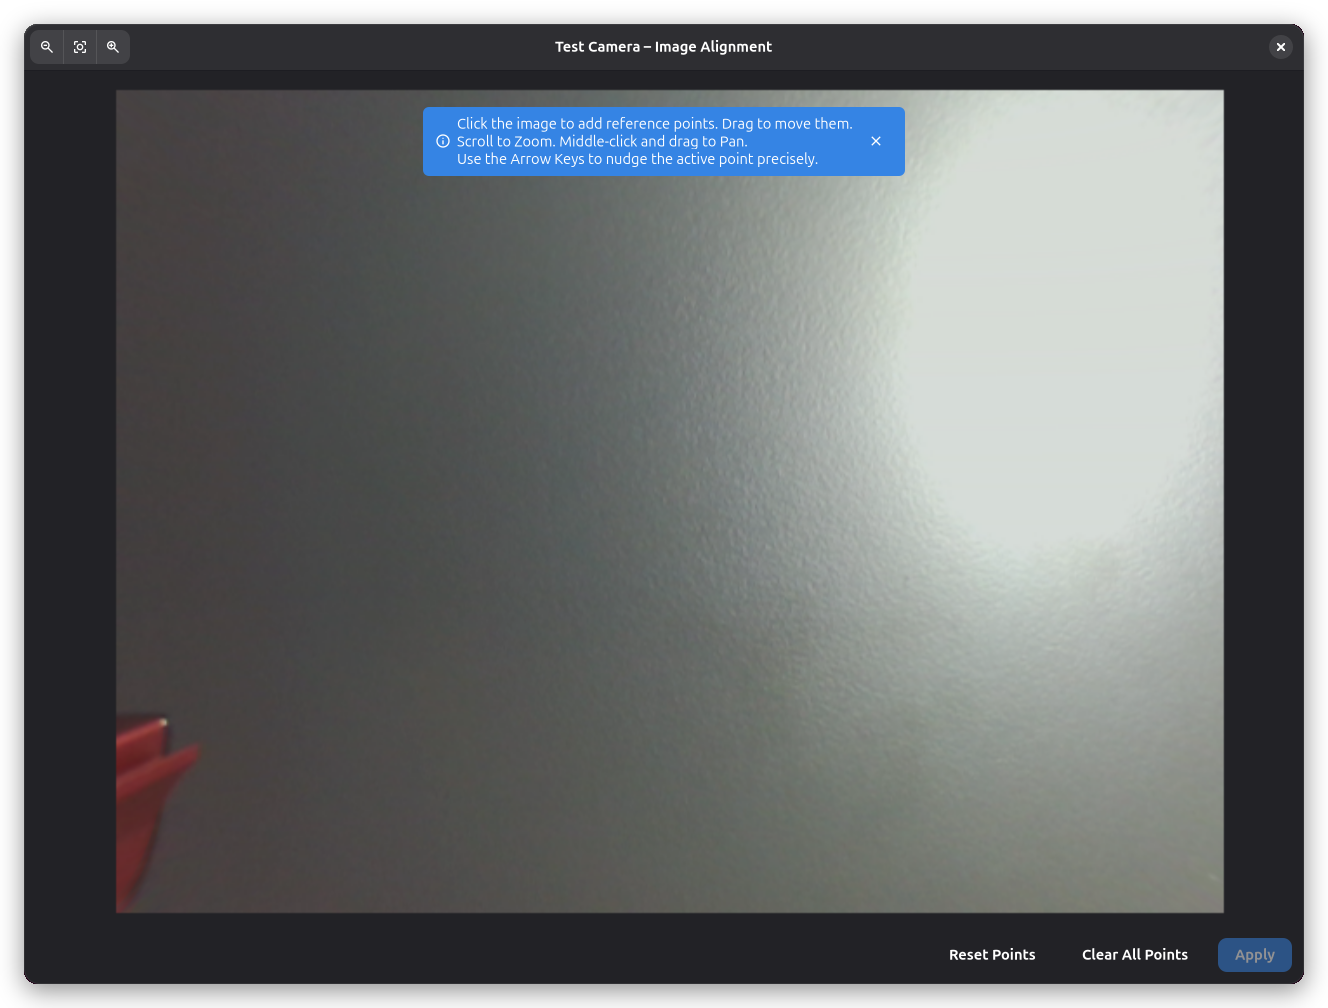
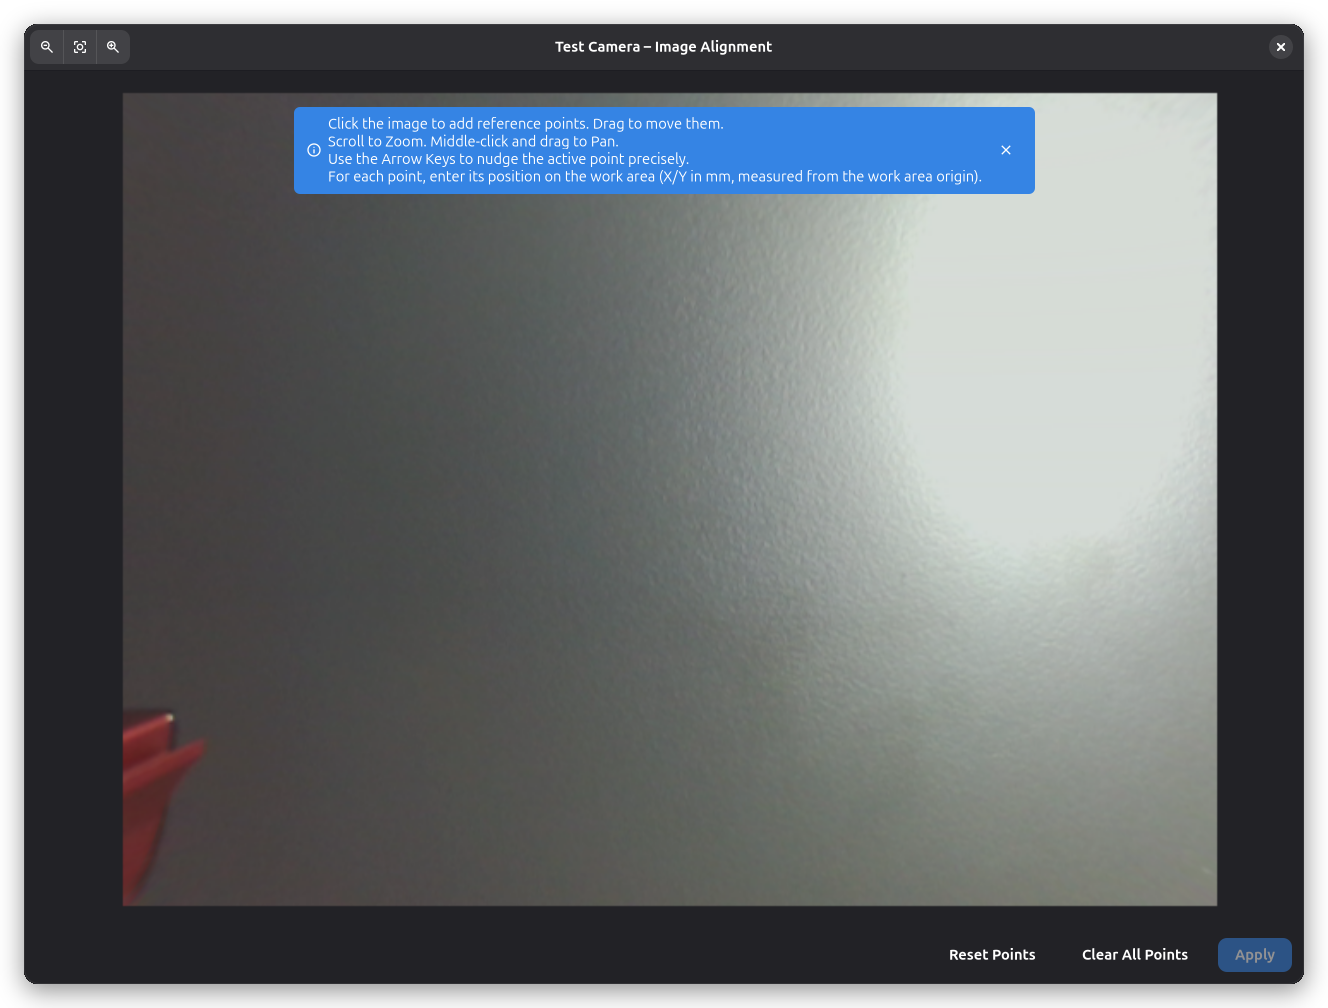
docs: update camera docs for the wizard calibration changes
Document that the calibration result is kept when its dialog is
closed, that reference point coordinates are entered in the display
unit measured from the work area origin, and that finishing the
wizard without alignment warns first. Regenerate the image alignment
screenshot, which shows the extended banner.

The camera screenshot script looked its mock controller up by source
id, which stopped matching when controllers became keyed by camera
id; give the mock camera a stable id so the target regenerates.

Changed region(s): [[0.0926, 0.0615, 0.9262, 0.9226], [0.0617, 0.0923, 0.0926, 0.8919], [0.1235, 0.7073, 0.1544, 0.7381]]

diff --git a/scripts/screenshot/machine_settings_camera.py b/scripts/screenshot/machine_settings_camera.py
@@ -67,7 +67,9 @@ def add_mock_camera(dialog):
     machine = dialog.machine
 
     def _add():
-        camera = Camera("Test Camera", "mock-device-0")
+        camera = Camera(
+            "Test Camera", "mock-device-0", camera_id="mock-device-0"
+        )
         camera.enabled = True
         machine.add_camera(camera)
         return camera

diff --git a/website/i18n/hi/docusaurus-plugin-content-docs/current/machine/camera.md b/website/i18n/hi/docusaurus-plugin-content-docs/current/machine/camera.md
@@ -198,8 +198,9 @@ YUYV विकल्प तब उपयोगी है जब आपका क
 3. कार्ड को कैमरा दृश्य के भीतर भिन्न स्थितियों और कोणों पर खिसकाएँ और प्रत्येक स्थिति के लिए
    **Capture Frame** पर क्लिक करें. कोनों और किनारों सहित पूरे फ़्रेम को कवर करने वाले कम से कम 8
    कैप्चर लक्षित करें. प्रगति पट्टी और स्थिति सूचक कैप्चर गुणवत्ता दिखाते हैं.
-4. पर्याप्त फ़्रेम कैप्चर होने पर, विज़ार्ड डिस्टॉर्शन मॉडल गणना करके लागू करता है — कैमरा ओवरले अब
-   सुधारी, सीधी छवि दिखाता है.
+4. पर्याप्त फ़्रेम कैप्चर होने पर, **Calibrate** पर क्लिक करें. विज़ार्ड परिणाम दिखाता है — इसे लागू
+   करने के लिए **Save Calibration** से पुष्टि करें (केवल **Discard** परिणाम छोड़ता है) — कैमरा ओवरले
+   अब सुधारी, सीधी छवि दिखाता है.
 
 #### मैन्युअल कैलिब्रेशन
 
@@ -216,7 +217,9 @@ YUYV विकल्प तब उपयोगी है जब आपका क
 
 छवि संरेखण कैमरा विज़ार्ड का अंतिम चरण है. कैमरा संरेखण कैमरा पिक्सेल और वास्तविक दुनिया के
 निर्देशांकों के बीच संबंध कैलिब्रेट करता है, सटीक स्थापना सक्षम करता है. विज़ार्ड यहीं वर्णित
-प्रक्रिया उपयोग करता है, और संरेखण लागू करने से विज़ार्ड पूरा हो जाता है.
+प्रक्रिया उपयोग करता है, और संरेखण लागू करने से विज़ार्ड पूरा हो जाता है. बिना लागू संरेखण के समाप्त
+करने पर पहले चेतावनी दी जाती है, क्योंकि तब कैमरा दृश्य को वर्क एरिया पर सटीक रूप से मैप नहीं किया
+जा सकता.
 
 #### संरेखण क्यों आवश्यक है
 
@@ -249,8 +252,10 @@ YUYV विकल्प तब उपयोगी है जब आपका क
    - प्रत्येक संदर्भ बिंदु के लिए दोहराएँ
 
 4. **विश्व निर्देशांक दर्ज करें:**
-   - प्रत्येक छवि बिंदु के लिए, वास्तविक दुनिया के X/Y निर्देशांक mm में दर्ज करें
-   - ये वास्तविक मशीन निर्देशांक हैं जहाँ प्रत्येक बिंदु स्थित है
+   - प्रत्येक छवि बिंदु के लिए, वास्तविक दुनिया के X/Y निर्देशांक अपनी प्रदर्शन इकाई में दर्ज करें
+     (एप्लिकेशन सेटिंग्स में सेट)
+   - ये वास्तविक मशीन निर्देशांक हैं जहाँ प्रत्येक बिंदु स्थित है, जो वर्क एरिया के मूल बिंदु से
+     मापे जाते हैं
    - पैमाने से सटीक रूप से मापें या ज्ञात मशीन स्थितियाँ उपयोग करें
 
 5. **संरेखण लागू करें:**

diff --git a/website/i18n/es/docusaurus-plugin-content-docs/current/machine/camera.md b/website/i18n/es/docusaurus-plugin-content-docs/current/machine/camera.md
@@ -150,8 +150,9 @@ Primero elige un **Pattern Type**:
    **Capture Frame** para cada posición. Apunta a al menos 8 capturas que cubran todo el encuadre,
    incluyendo esquinas y bordes. La barra de progreso y los indicadores de estado muestran la
    calidad de captura.
-4. Cuando se hayan capturado suficientes fotogramas, el asistente calcula el modelo de distorsión y
-   lo aplica — la superposición de la cámara ahora muestra una imagen corregida y recta.
+4. Cuando se hayan capturado suficientes fotogramas, haz clic en **Calibrate**. El asistente muestra
+   el resultado — confírmalo con **Save Calibration** para aplicarlo (solo **Discard** descarta el
+   resultado) — y la superposición de la cámara ahora muestra una imagen corregida y recta.
 
 #### Uso de un patrón ya impreso
 
@@ -215,7 +216,9 @@ distorsión manualmente — ajusta finamente los parámetros radiales (k1–k3) 
 La alineación de imagen es la etapa final del asistente de cámara. La alineación de cámara calibra
 la relación entre los píxeles de la cámara y las coordenadas del mundo real, permitiendo el
 posicionamiento preciso. El asistente usa el mismo procedimiento descrito aquí, y aplicar la
-alineación finaliza el asistente.
+alineación finaliza el asistente. Finalizar sin una alineación aplicada muestra primero una
+advertencia, porque entonces la vista de la cámara no puede mapearse con precisión sobre el área de
+trabajo.
 
 #### Por Qué es Necesaria la Alineación
 
@@ -250,8 +253,10 @@ de la máquina.
    - Repite para cada punto de referencia
 
 4. **Ingresa coordenadas del mundo:**
-   - Para cada punto de imagen, ingresa las coordenadas X/Y del mundo real en mm
-   - Estas son las coordenadas reales de la máquina donde está ubicado cada punto
+   - Para cada punto de imagen, ingresa las coordenadas X/Y del mundo real en tu unidad de
+     visualización (configurada en los ajustes de la aplicación)
+   - Estas son las coordenadas reales de la máquina donde está ubicado cada punto, medidas desde el
+     origen del área de trabajo
    - Mide con precisión con una regla o usa posiciones conocidas de la máquina
 
 5. **Aplica la alineación:**

diff --git a/website/i18n/de/docusaurus-plugin-content-docs/current/machine/camera.md b/website/i18n/de/docusaurus-plugin-content-docs/current/machine/camera.md
@@ -149,8 +149,9 @@ Wähle zuerst einen **Pattern Type**:
    jede Position auf **Capture Frame**. Strebe mindestens 8 Aufnahmen an, die das gesamte Bild
    abdecken, einschließlich Ecken und Kanten. Die Fortschrittsanzeige und Statusanzeigen zeigen die
    Aufnahmequalität.
-4. Sobald genügend Aufnahmen gemacht wurden, berechnet der Assistent das Verzerrungsmodell und
-   wendet es an — das Kamera-Overlay zeigt nun ein korrigiertes, gerades Bild.
+4. Sobald genügend Aufnahmen gemacht wurden, klicke auf **Calibrate**. Der Assistent zeigt das
+   Ergebnis — bestätige mit **Save Calibration**, um es anzuwenden (nur **Discard** verwirft das
+   Ergebnis) — und das Kamera-Overlay zeigt nun ein korrigiertes, gerades Bild.
 
 #### Ein bereits gedrucktes Muster verwenden
 
@@ -213,7 +214,8 @@ manuell anpassen — die radialen (k1–k3) und tangentialen (p1–p2) Parameter
 Die Bildausrichtung ist die letzte Stufe des Kamera-Assistenten. Die Kameraausrichtung kalibriert
 die Beziehung zwischen Kamerapixeln und realen Koordinaten und ermöglicht so präzises Positionieren.
 Der Assistent verwendet dasselbe hier beschriebene Verfahren, und das Anwenden der Ausrichtung
-schließt den Assistenten ab.
+schließt den Assistenten ab. Ein Beenden ohne angewendete Ausrichtung fragt zuerst nach, da die
+Kameraansicht dann nicht genau auf den Arbeitsbereich abgebildet werden kann.
 
 #### Warum Ausrichtung notwendig ist
 
@@ -246,8 +248,10 @@ Die Ausrichtung erstellt eine Transformationsmatrix, die Kamerapixel Maschinenko
    - Wiederhole für jeden Referenzpunkt
 
 4. **Weltkoordinaten eingeben:**
-   - Gib für jeden Bildpunkt die realen X/Y-Koordinaten in mm ein
-   - Dies sind die tatsächlichen Maschinenkoordinaten, an denen sich jeder Punkt befindet
+   - Gib für jeden Bildpunkt die realen X/Y-Koordinaten in deiner Anzeigeeinheit ein (in den
+     Anwendungseinstellungen festgelegt)
+   - Dies sind die tatsächlichen Maschinenkoordinaten, an denen sich jeder Punkt befindet, gemessen
+     vom Ursprung des Arbeitsbereichs
    - Miss genau mit einem Lineal oder verwende bekannte Maschinenpositionen
 
 5. **Ausrichtung anwenden:**

diff --git a/website/i18n/pt-BR/docusaurus-plugin-content-docs/current/machine/camera.md b/website/i18n/pt-BR/docusaurus-plugin-content-docs/current/machine/camera.md
@@ -147,8 +147,9 @@ Primeiro escolha um **Pattern Type**:
 3. Mova o padrão para diferentes posições e ângulos dentro da vista da câmera e clique em **Capture
    Frame** para cada posição. Procure fazer pelo menos 8 capturas cobrindo todo o quadro, incluindo
    cantos e bordas. A barra de progresso e os indicadores de status mostram a qualidade da captura.
-4. Quando quadros suficientes forem capturados, o assistente calcula o modelo de distorção e o
-   aplica — a sobreposição da câmera agora mostra uma imagem corrigida e reta.
+4. Quando quadros suficientes forem capturados, clique em **Calibrate**. O assistente mostra o
+   resultado — confirme com **Save Calibration** para aplicá-lo (apenas **Discard** descarta o
+   resultado) — e a sobreposição da câmera agora mostra uma imagem corrigida e reta.
 
 #### Usando um padrão já impresso
 
@@ -210,6 +211,8 @@ ajuste fino dos parâmetros radial (k1–k3) e tangencial (p1–p2).
 O alinhamento de imagem é o estágio final do assistente de câmera. O alinhamento da câmera calibra a
 relação entre pixels da câmera e coordenadas do mundo real, permitindo posicionamento preciso. O
 assistente usa o mesmo procedimento descrito aqui, e aplicar o alinhamento conclui o assistente.
+Finalizar sem um alinhamento aplicado exibe primeiro um aviso, porque a visão da câmera então não
+pode ser mapeada com precisão sobre a área de trabalho.
 
 #### Por Que o Alinhamento é Necessário
 
@@ -243,8 +246,10 @@ máquina.
    - Repita para cada ponto de referência
 
 4. **Insira coordenadas do mundo real:**
-   - Para cada ponto na imagem, insira as coordenadas X/Y reais em mm
-   - Estas são as coordenadas reais da máquina onde cada ponto está localizado
+   - Para cada ponto na imagem, insira as coordenadas X/Y reais na sua unidade de exibição (definida
+     nas configurações do aplicativo)
+   - Estas são as coordenadas reais da máquina onde cada ponto está localizado, medidas a partir da
+     origem da área de trabalho
    - Meça com precisão com uma régua ou use posições conhecidas da máquina
 
 5. **Aplique o alinhamento:**

diff --git a/website/i18n/fr/docusaurus-plugin-content-docs/current/machine/camera.md b/website/i18n/fr/docusaurus-plugin-content-docs/current/machine/camera.md
@@ -152,8 +152,9 @@ Choisis d'abord un **Pattern Type** :
    Frame** pour chaque position. Vise au moins 8 captures couvrant tout le cadre, y compris les
    coins et les bords. La barre de progression et les indicateurs d'état montrent la qualité de la
    capture.
-4. Une fois suffisamment d'images capturées, l'assistant calcule le modèle de distorsion et
-   l'applique — la superposition caméra affiche maintenant une image corrigée et droite.
+4. Une fois suffisamment d'images capturées, clique sur **Calibrate**. L'assistant affiche le
+   résultat — confirme avec **Save Calibration** pour l'appliquer (seul **Discard** jette le
+   résultat) — et la superposition caméra affiche maintenant une image corrigée et droite.
 
 #### Utiliser un motif déjà imprimé
 
@@ -217,7 +218,8 @@ manuellement les coefficients de distorsion — ajuste finement les paramètres 
 L'alignement d'image est l'étape finale de l'assistant de caméra. L'alignement de la caméra calibre
 la relation entre les pixels de la caméra et les coordonnées du monde réel, permettant un
 positionnement précis. L'assistant utilise la même procédure décrite ici, et appliquer l'alignement
-termine l'assistant.
+termine l'assistant. Terminer sans alignement appliqué déclenche d'abord un avertissement, car la
+vue caméra ne peut alors pas être projetée avec précision sur la zone de travail.
 
 #### Pourquoi l'Alignement est Nécessaire
 
@@ -252,8 +254,10 @@ machine.
    - Répète pour chaque point de référence
 
 4. **Entre les coordonnées monde :**
-   - Pour chaque point d'image, entre les coordonnées X/Y réelles en mm
-   - Ce sont les coordonnées machine réelles où chaque point est situé
+   - Pour chaque point d'image, entre les coordonnées X/Y réelles dans ton unité d'affichage
+     (définie dans les réglages de l'application)
+   - Ce sont les coordonnées machine réelles où chaque point est situé, mesurées depuis l'origine de
+     la zone de travail
    - Mesure avec précision avec une règle ou utilise des positions machine connues
 
 5. **Applique l'alignement :**

diff --git a/website/docs/machine/camera.md b/website/docs/machine/camera.md
@@ -209,8 +209,9 @@ First choose a **Pattern Type**:
 3. Move the pattern to different positions and angles within the camera view and click **Capture
    Frame** for each position. Aim for at least 8 captures covering the entire frame, including
    corners and edges. The progress bar and status indicators show capture quality.
-4. When enough frames are captured, the wizard computes the distortion model and applies it — the
-   camera overlay now shows a corrected, straight image.
+4. When enough frames are captured, click **Calibrate**. The wizard shows the result — confirm with
+   **Save Calibration** to apply it (only **Discard** throws the result away) — and the camera
+   overlay now shows a corrected, straight image.
 
 #### Using a Pattern You Already Printed
 
@@ -272,7 +273,9 @@ tangential (p1–p2) parameters.
 
 Image alignment is the camera wizard's final stage. Camera alignment calibrates the relationship
 between camera pixels and real-world coordinates, enabling accurate positioning. The wizard uses the
-same procedure described here, and applying the alignment finishes the wizard.
+same procedure described here, and applying the alignment finishes the wizard. Finishing without an
+applied alignment warns first, because the camera view then cannot be mapped onto the work area
+accurately.
 
 #### Why Alignment is Necessary
 
@@ -305,8 +308,10 @@ Alignment creates a transformation matrix that maps camera pixels to machine coo
    - Repeat for each reference point
 
 4. **Enter world coordinates:**
-   - For each image point, enter the real-world X/Y coordinates in mm
-   - These are the actual machine coordinates where each point is located
+   - For each image point, enter the real-world X/Y coordinates in your display unit (set in the
+     application settings)
+   - These are the actual machine coordinates where each point is located, measured from the work
+     area origin
    - Measure accurately with a ruler or use known machine positions
 
 5. **Apply alignment:**
